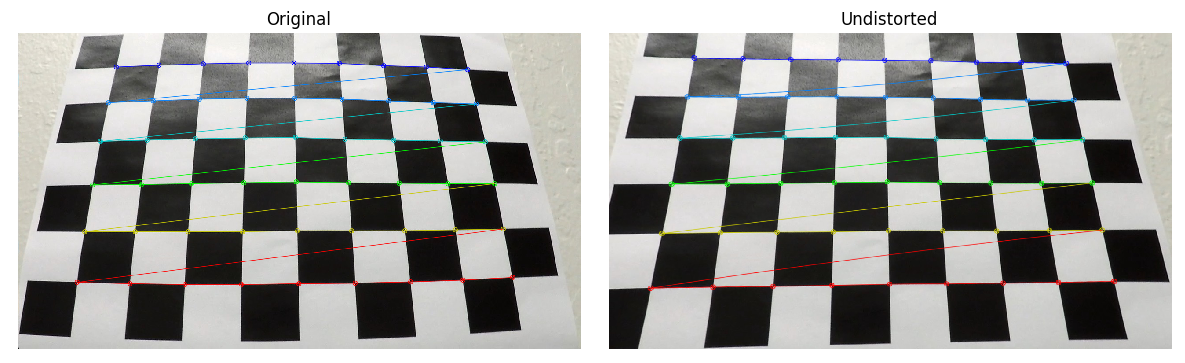
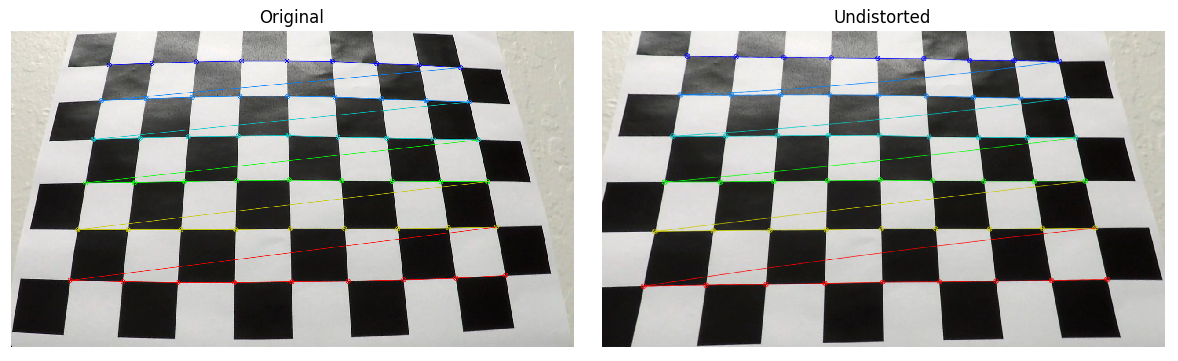
bug fix + report fix

diff --git a/main.py b/main.py
@@ -369,7 +369,7 @@ class Lane():
         l_fitx - x indices fitted fot left line
         r_fitx - x indices fitted fot right line
         '''
-        return (r_fitx[index] - l_fitx[index])/2
+        return (r_fitx[index] - l_fitx[index])
 
     def cur_width_px(self, index):
         '''
@@ -670,4 +670,4 @@ class Pipeline():
 calib_params_path='.\\camera_cal\\calib_params.p'
 persp_params_path='.\\camera_cal\\persp_params.p'        
 pipeline = Pipeline(calib_params_path, persp_params_path, 3.7/615, 3/118)
-pipeline.process_video('project_video.mp4', 'project_result1.mp4')
+pipeline.process_video('project_video.mp4', 'project_result.mp4')

diff --git a/repl.py b/repl.py
@@ -556,7 +556,7 @@ class Lane():
         return self.is_state_good() and self.can_average()
 
     def calc_width_px(self, l_fitx, r_fitx, index):
-        return (r_fitx[index] - l_fitx[index])/2
+        return (r_fitx[index] - l_fitx[index])
 
     def cur_width_px(self, index):
         result = None
@@ -565,7 +565,7 @@ class Lane():
         return result
     
     def cur_vehicle_pos_px(self):
-        return (self.frame_width/2 - (self.l_fitx_cur[-1] + self.cur_width_px(-1)))
+        return (self.frame_width/2 - (self.l_fitx_cur[-1] + self.cur_width_px(-1)/2))
     
     def avg_width_px(self, index):
         result = None

diff --git a/calibration.py b/calibration.py
@@ -75,6 +75,6 @@ img = cv2.drawChessboardCorners(img, (nx,ny), corners, ret)
 undist = lu.undistort(img, calib_params)
 lu.plot_img_grid([img,undist],['Original','Undistorted'], cols=2, figsize=(7,3))
 
-img = mpimg.imread('.\\test_images\\testc3.jpg')
+img = mpimg.imread('.\\test_images\\test1.jpg')
 undist = lu.undistort(img, calib_params)
 lu.plot_img_grid([img,undist],['Original','Undistorted'], cols=2, figsize=(7,3))

diff --git a/writeup_report.md b/writeup_report.md
@@ -172,7 +172,7 @@ As i mentioned above i used two modes of searching pixels corresponding to lane 
 
 Additionaly i implemented prediction mode, which is used when fitted polynomials didn't pass sanity cheks. Predictions were done by the same method as averaging.
 
-My sanity checks includes checking top and bottom widths of lane are reasonable: fit the frame, and do not deviate from average values for more then 10% (main.py, lines 207 to 249). 
+My sanity checks includes checking that top and bottom widths of lane are reasonable: fit the frame, and do not deviate from average values for more then 10% (main.py, lines 207 to 249). 
 
 The code for high-level algorithm of lines detection, including mode selection, sanity checks and state reset is contained in file main.py (lines 251 to 292)
 
@@ -210,4 +210,4 @@ And for harder challenge video, i guess, "road is a plane" assumption does not e
 
 So that all leads me to thoughts about dynamic perspective trasformation calculation. But here is sort of "chicken-egg" problem. To detect ROI for transformation estimation i'll need lane lines or, at least vanishing points. 
 
-So here is the huge field of research for me. My first guess her is to look to "structure for motion" methods or similar methods of 3D scene estimation. Stereo vision looks promising as well.
+So here is the huge field of research for me. My first guess her is to look to "structure for motion" methods or similar methods of 3D scene estimation. Stereo vision looks promising as well, but does not meets project requirements - only one camera at my disposal.
